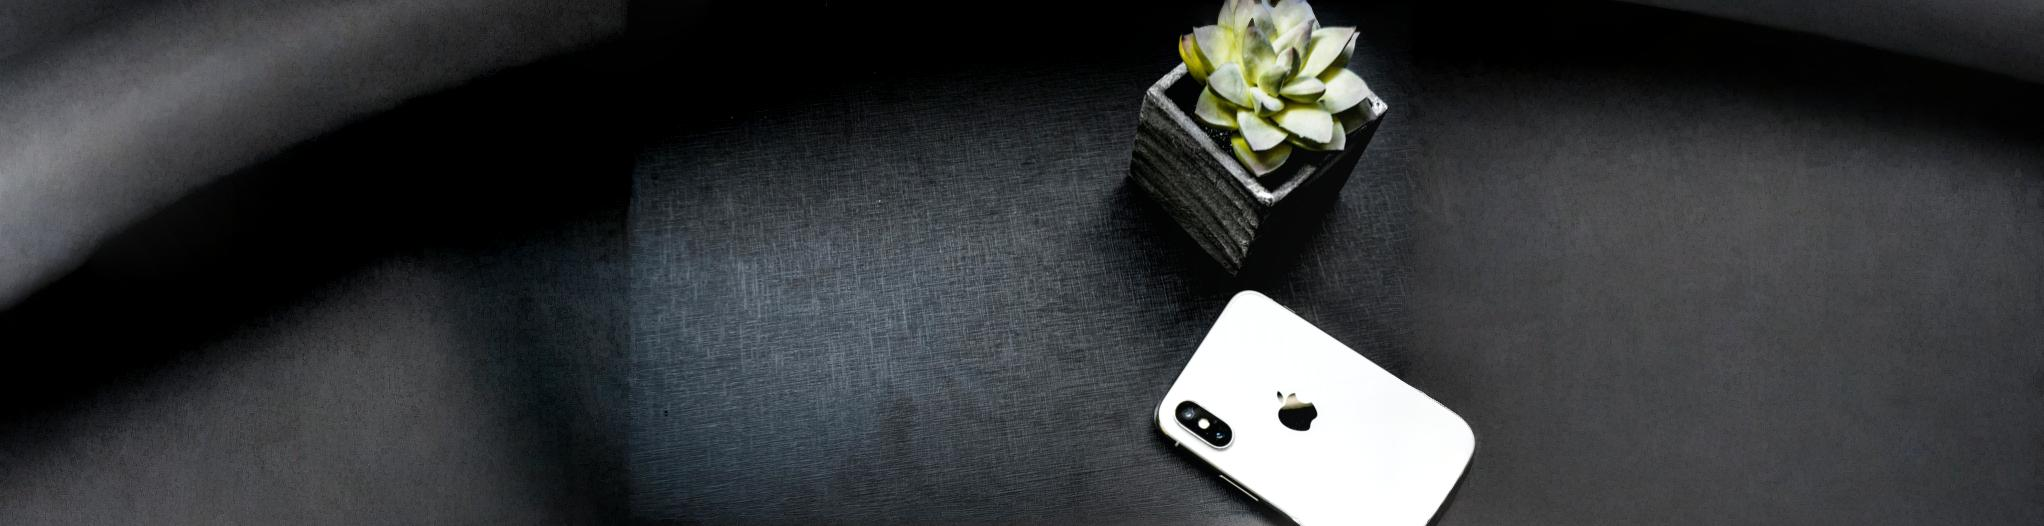
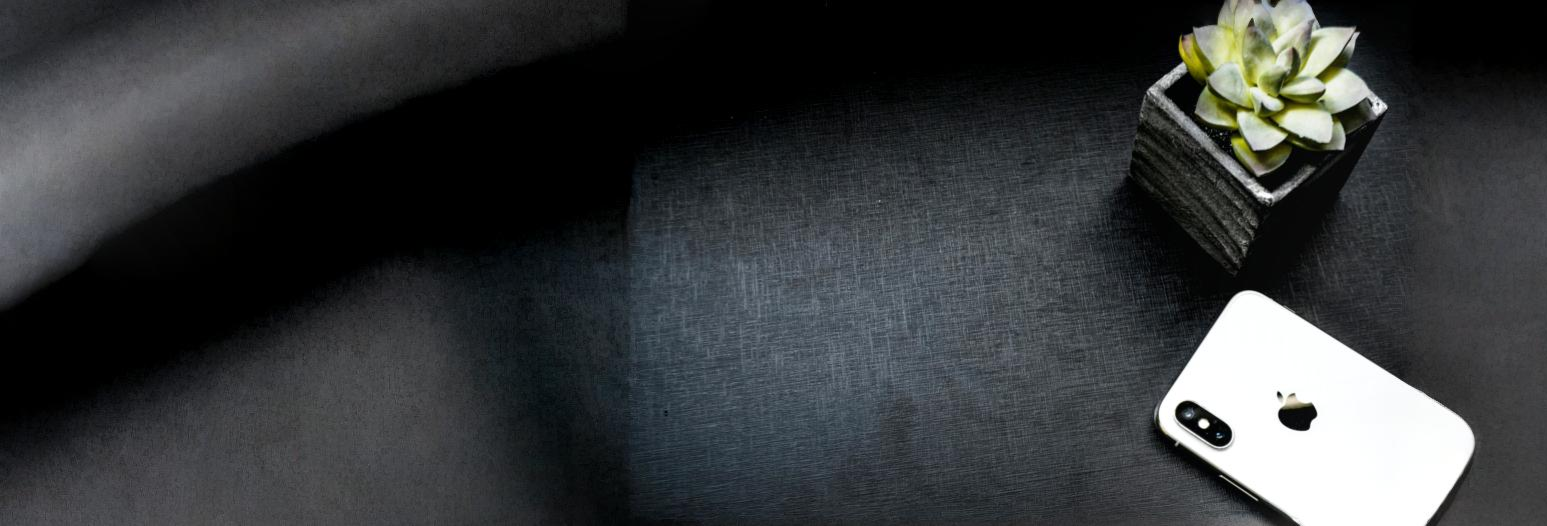
command quick reply

diff --git a/app/templates/user/index.html b/app/templates/user/index.html
@@ -299,7 +299,7 @@
 <style>
 .hero-section-bg {
     background: linear-gradient(135deg, #0B5ED7 0%, #6C757D 100%);
-    background-image: url("{{ url_for('static', filename='images/homeWallpaper1.jpg') }}");
+    background-image: url("{{ url_for('static', filename='images/homeWallpaper1.png') }}");
     background-size: cover;
     background-position: right center;
     background-repeat: no-repeat;

diff --git a/app/modules/chatbot.py b/app/modules/chatbot.py
@@ -458,7 +458,7 @@ class ChatbotEngine:
                     return {
                         'response': "I'm DialSmart AI Assistant, and I specialize in helping you find the perfect smartphone! 📱\n\nI can assist you with:\n• Phone recommendations based on your needs\n• Budget-friendly options\n• Brand comparisons\n• Phone specifications\n• Phones for gaming, photography, business, etc.\n\nWhat kind of phone are you looking for today?",
                         'type': 'text',
-                        'quick_replies': ['Find a phone under RM2000', 'Gaming phones', 'Best camera phones', 'Show popular brands']
+                        # 'quick_replies': ['Find a phone under RM2000', 'Gaming phones', 'Best camera phones', 'Show popular brands']
                     }
 
         # Extract and store features from current message
@@ -598,7 +598,7 @@ class ChatbotEngine:
             return {
                 'response': "Hello! I'm DialSmart AI Assistant. I'm here to help you find the perfect smartphone. How can I assist you today?",
                 'type': 'text',
-                'quick_replies': ['Find a phone', 'Compare phones', 'Show me budget options']
+                # 'quick_replies': ['Find a phone', 'Compare phones', 'Show me budget options']
             }
 
         # CRITICAL FIX: Reject malicious/inappropriate queries immediately
@@ -607,7 +607,7 @@ class ChatbotEngine:
             return {
                 'response': "I'm DialSmart AI Assistant, and I specialize in helping you find the perfect smartphone! 📱\n\nI can assist you with:\n• Phone recommendations based on your needs\n• Budget-friendly options\n• Brand comparisons\n• Phone specifications\n• Phones for gaming, photography, business, etc.\n\nWhat kind of phone are you looking for today?",
                 'type': 'text',
-                'quick_replies': ['Find a phone under RM2000', 'Gaming phones', 'Best camera phones', 'Show popular brands']
+                # 'quick_replies': ['Find a phone under RM2000', 'Gaming phones', 'Best camera phones', 'Show popular brands']
             }
 
         # Get session context
@@ -907,7 +907,7 @@ class ChatbotEngine:
                             return {
                                 'response': f"I couldn't find a specific model matching '{brand_text} {model_text}'. Would you like to:\n• See all {brand_text} phones\n• Try a different model name\n• Get recommendations based on your budget",
                                 'type': 'text',
-                                'quick_replies': [f'Show {brand_text} phones', 'Find phones under RM2000', 'Latest phones']
+                                # 'quick_replies': [f'Show {brand_text} phones', 'Find phones under RM2000', 'Latest phones']
                             }
             except Exception as e:
                 # Error during model extraction - log and continue with general intent handling
@@ -973,7 +973,7 @@ class ChatbotEngine:
                     return {
                         'response': f"I couldn't find {brand_text}phones with camera above {relaxed_camera}MP{budget_text}. Please try:\n• Different brand\n• Adjust your budget\n• Browse all phones",
                         'type': 'text',
-                        'quick_replies': ['Show all brands', 'Phones under RM3000', 'Browse all phones']
+                        # 'quick_replies': ['Show all brands', 'Phones under RM3000', 'Browse all phones']
                     }
 
         # Check if the query is phone-related (skip for greetings and help)
@@ -981,7 +981,7 @@ class ChatbotEngine:
             return {
                 'response': "I'm DialSmart AI Assistant, and I specialize in helping you find the perfect smartphone! 📱\n\nI can assist you with:\n• Phone recommendations based on your needs\n• Budget-friendly options\n• Brand comparisons\n• Phone specifications\n• Phones for gaming, photography, business, etc.\n\nWhat kind of phone are you looking for today?",
                 'type': 'text',
-                'quick_replies': ['Find a phone under RM2000', 'Gaming phones', 'Best camera phones', 'Show popular brands']
+                # 'quick_replies': ['Find a phone under RM2000', 'Gaming phones', 'Best camera phones', 'Show popular brands']
             }
 
         if intent == 'budget_query' or intent == 'timeline':
@@ -1903,7 +1903,7 @@ class ChatbotEngine:
                     return {
                         'response': f"I couldn't find phones specifically for {category_name} within {budget_text}. Let me show you our available phones. What's your preferred budget range?",
                         'type': 'text',
-                        'quick_replies': ['Under RM1000', 'RM1000-RM2000', 'RM2000-RM3000', 'Above RM3000']
+                        # 'quick_replies': ['Under RM1000', 'RM1000-RM2000', 'RM2000-RM3000', 'Above RM3000']
                     }
 
             # PRIORITY 2: Brands mentioned - always prioritize brand filtering
@@ -1963,7 +1963,7 @@ class ChatbotEngine:
                         return {
                             'response': f"I couldn't find {brands_list} phones for {usage.lower()}. Would you like to see {usage.lower()} phones from other brands, or choose different brands?",
                             'type': 'text',
-                            'quick_replies': [f'Show all {usage} phones', 'Try different brands']
+                            # 'quick_replies': [f'Show all {usage} phones', 'Try different brands']
                         }
 
                 # Brands + Features (e.g., "apple and samsung with good camera")
@@ -2021,7 +2021,7 @@ class ChatbotEngine:
                         return {
                             'response': f"I couldn't find {brands_list} phones with {feature_desc}. Would you like to see similar phones from other brands?",
                             'type': 'text',
-                            'quick_replies': ['Show all brands', 'Try different features']
+                            # 'quick_replies': ['Show all brands', 'Try different features']
                         }
 
                 # Brands only (e.g., "apple and samsung phone")
@@ -2073,7 +2073,7 @@ class ChatbotEngine:
                         return {
                             'response': f"I couldn't find {brands_list} phones{budget_text}. Would you like to see phones from other brands?",
                             'type': 'text',
-                            'quick_replies': ['Show all brands', 'Adjust budget']
+                            # 'quick_replies': ['Show all brands', 'Adjust budget']
                         }
 
             # PRIORITY 3: Usage type without brands (e.g., "gaming phone")
@@ -2226,7 +2226,7 @@ class ChatbotEngine:
             return {
                 'response': "Let me help you find the perfect phone. What's your budget and what will you primarily use it for?",
                 'type': 'text',
-                'quick_replies': ['Under RM2000', 'Gaming', 'Photography', 'Show popular phones']
+                # 'quick_replies': ['Under RM2000', 'Gaming', 'Photography', 'Show popular phones']
             }
 
         elif intent == 'usage_type':
@@ -2689,7 +2689,7 @@ class ChatbotEngine:
             return {
                 'response': "I'm here to help you find the perfect smartphone! You can ask me about phone recommendations, budget options, brands, or specifications. What would you like to know?",
                 'type': 'text',
-                'quick_replies': ['Find a phone', 'Budget options', 'Popular brands']
+                # 'quick_replies': ['Find a phone', 'Budget options', 'Popular brands']
             }
 
     # NEW METHODS for specific phone queries

diff --git a/app/modules/enhanced_chatbot.py b/app/modules/enhanced_chatbot.py
@@ -148,7 +148,7 @@ class EnhancedChatbotEngine:
         return {
             'response': "Hello! I'm DialSmart AI Assistant. I'm here to help you find the perfect smartphone. How can I assist you today?",
             'type': 'text',
-            'quick_replies': ['Find a phone', 'Compare phones', 'Show me budget options']
+            # 'quick_replies': ['Find a phone', 'Compare phones', 'Show me budget options']
         }
 
     def _handle_help(self) -> Dict:
@@ -1105,7 +1105,7 @@ Just ask me anything like:
         return {
             'response': "I'm here to help you find the perfect smartphone! You can ask me about:\n\n• Phone recommendations\n• Specific models (e.g., 'iPhone 15', 'Xiaomi 14 Pro')\n• Budget options\n• Brand preferences\n• Phones with specific features (battery, camera, etc.)\n\nWhat would you like to know?",
             'type': 'text',
-            'quick_replies': ['Find a phone', 'Budget options', 'Popular brands']
+            # 'quick_replies': ['Find a phone', 'Budget options', 'Popular brands']
         }
 
     def _extract_numeric_values(self, text: str) -> List[int]:

diff --git a/app/routes/api.py b/app/routes/api.py
@@ -133,7 +133,7 @@ def chat():
             'response': response['response'],
             'type': response.get('type', 'text'),
             'metadata': response.get('metadata', {}),
-            'quick_replies': response.get('quick_replies', []),
+            # 'quick_replies': response.get('quick_replies', []),
             'session_id': session_id
         })
     except Exception as e:
